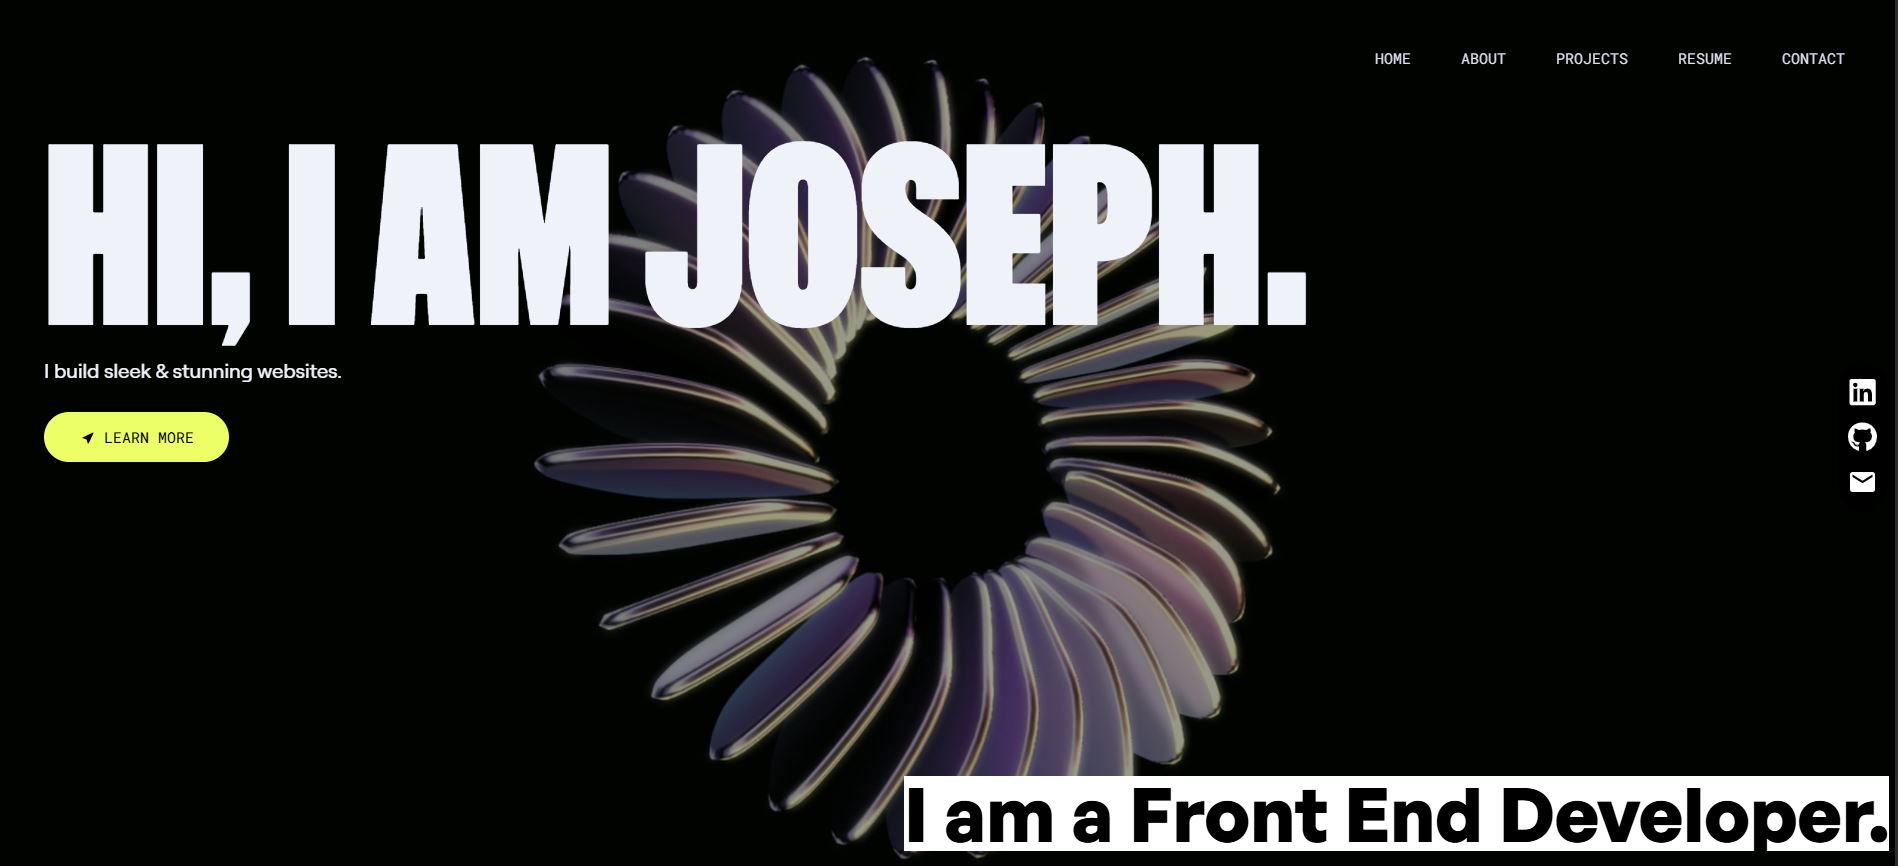
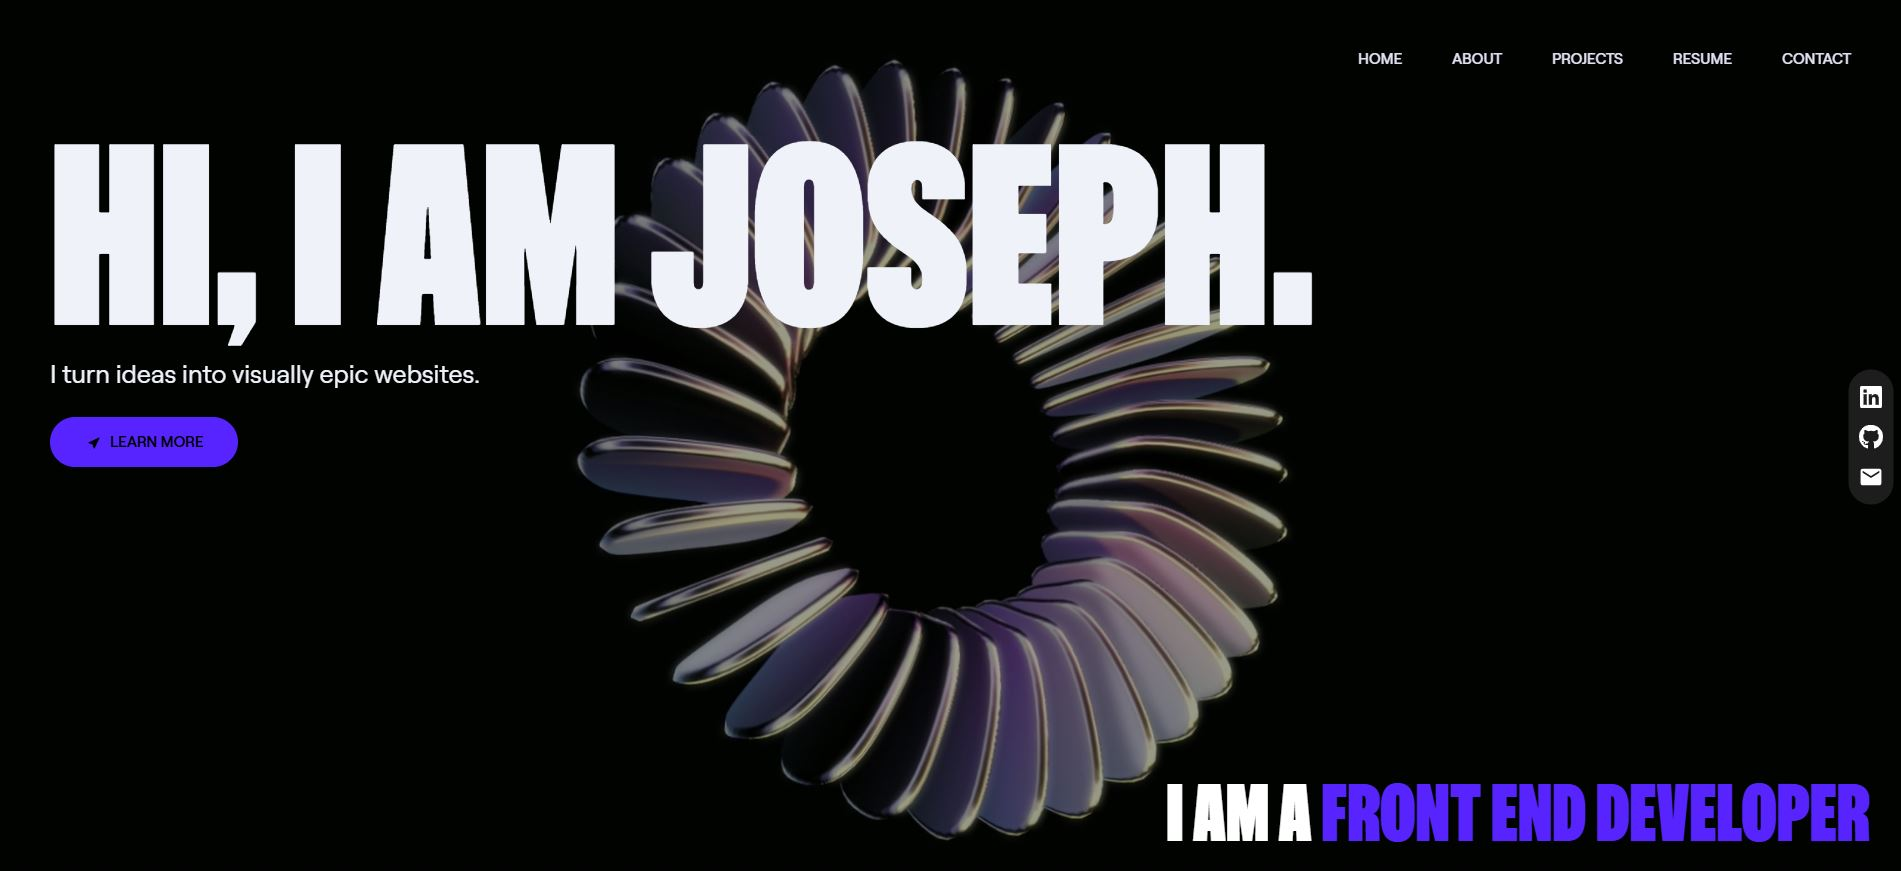
edit

diff --git a/portfolio/src/components/Hero.jsx b/portfolio/src/components/Hero.jsx
@@ -82,16 +82,17 @@ export default function Hero() {
       )}
 
       <div id="video-frame" className="relative">
-        {/* Spline Background */}
-        <div className="absolute left-0 top-0 size-full z-0">
-          
-            <video src="/videos/chips.mp4" autoPlay loop muted></video>
 
+        <div className="absolute left-0 top-0 size-full z-0">
+            <video src="/videos/chips.mp4" autoPlay loop muted></video>
         </div>
-        {/* Overlay for Readability */}
-        <div className="absolute left-0 top-0 size-full bg-black bg-opacity-40 z-5"></div>
-        {/* Placeholder Section (Maintains Structure) */}
-        <section className="z-0 min-h-screen bg-transparent" />
+
+        
+
+          {/* Overlay for Readability */}
+          <div className="absolute left-0 top-0 size-full bg-black bg-opacity-40 z-5"></div>
+          {/* Placeholder Section (Maintains Structure) */}
+          <section className="z-0 min-h-screen bg-transparent" />
         {/* Overlay Content */}
         <div className="absolute left-0 top-0 z-40 size-full">
           <div className="mt-24 px-5 sm:px-10">
@@ -102,27 +103,30 @@ export default function Hero() {
               I turn ideas into visually epic websites.
             </p>
             <div className="relative z-50">
-  <Button
-    title="Learn More"
-    leftIcon={<TiLocationArrow />}
-    containerClass="bg-violet-300 hover:bg-yellow-400 transition duration-300 flex-center gap-1"
-    onClick={() => {
-      const nextSection = document.querySelector("#about");
-      if (nextSection) {
-        const sectionTop = nextSection.getBoundingClientRect().top + window.scrollY;
-        window.scrollTo({
-          top: sectionTop,
-          behavior: "smooth",
-        });
-      }
-    }}
-  />
-</div>
+              <Button
+                title="Learn More"
+                leftIcon={<TiLocationArrow />}
+                containerClass="bg-violet-300 hover:bg-yellow-400 transition duration-300 flex-center gap-1"
+                onClick={() => {
+                  const nextSection = document.querySelector("#about");
+                  if (nextSection) {
+                    const sectionTop = nextSection.getBoundingClientRect().top + window.scrollY;
+                    window.scrollTo({
+                      top: sectionTop,
+                      behavior: "smooth",
+                    });
+                  }
+                }}
+              />
+          </div>
           </div>
         </div>
       </div>
-      <h1 className="absolute bottom-5 right-5 text-6xl mr-5 font-zentry text-white">
-        I am a <span className="text-violet-300">Front End Developer</span>
+      <h1 className="absolute bottom-5 right-5 text-6xl mr-5 z-40 font-zentry text-white">
+          I am a <span>Front End Developer</span>
+        </h1>
+      <h1 className="absolute bottom-5 right-5 text-6xl mr-5 font-zentry text-black">
+        I am a <span>Front End Developer</span>
       </h1>
     </div>
   );
